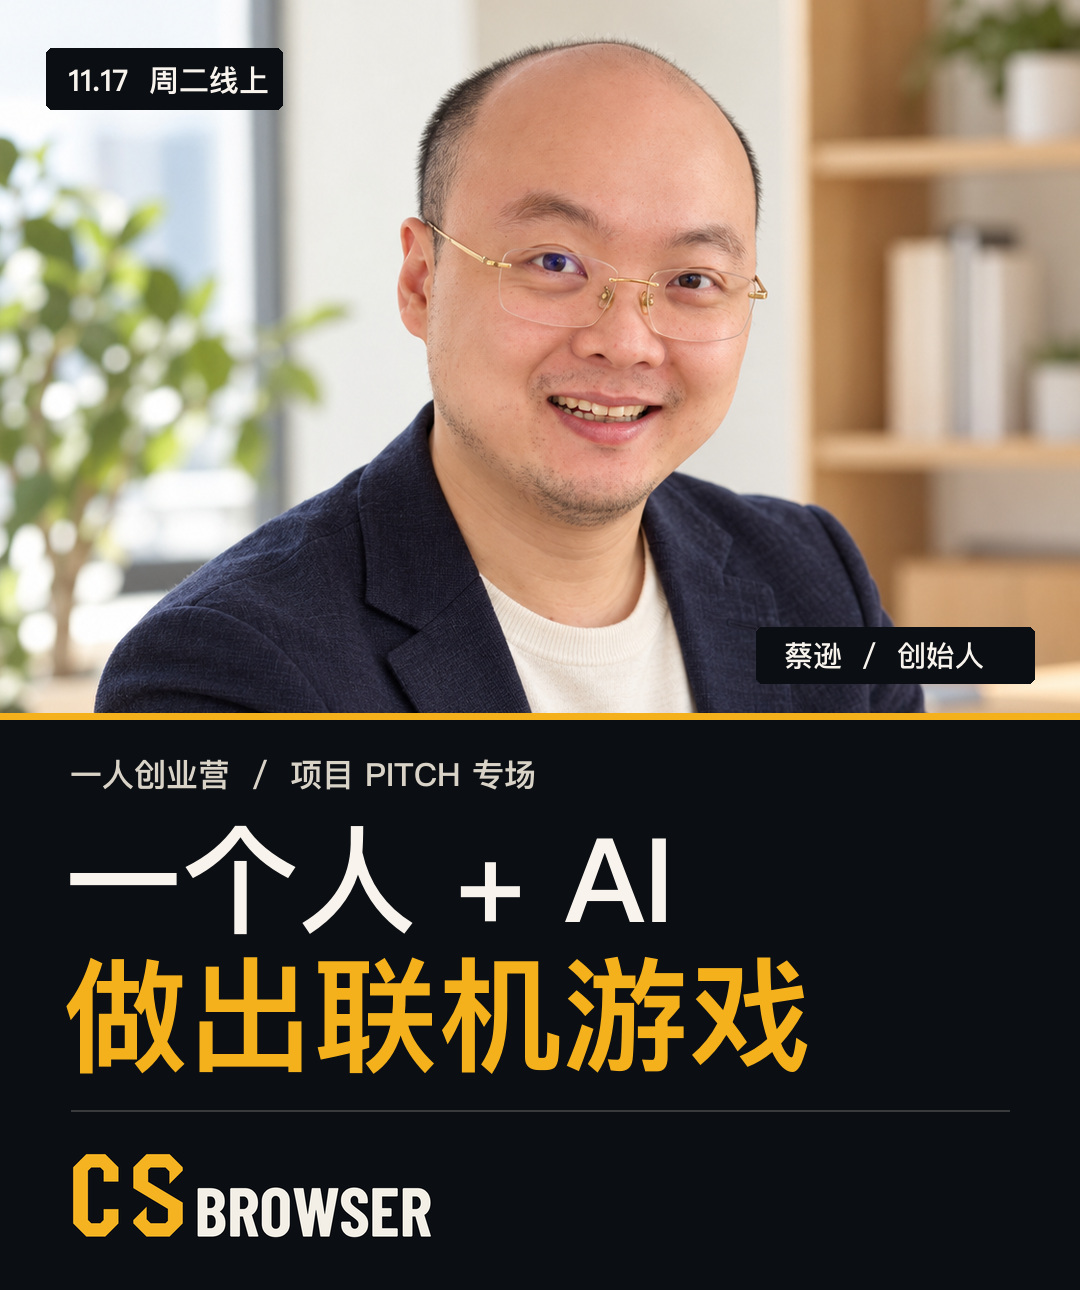
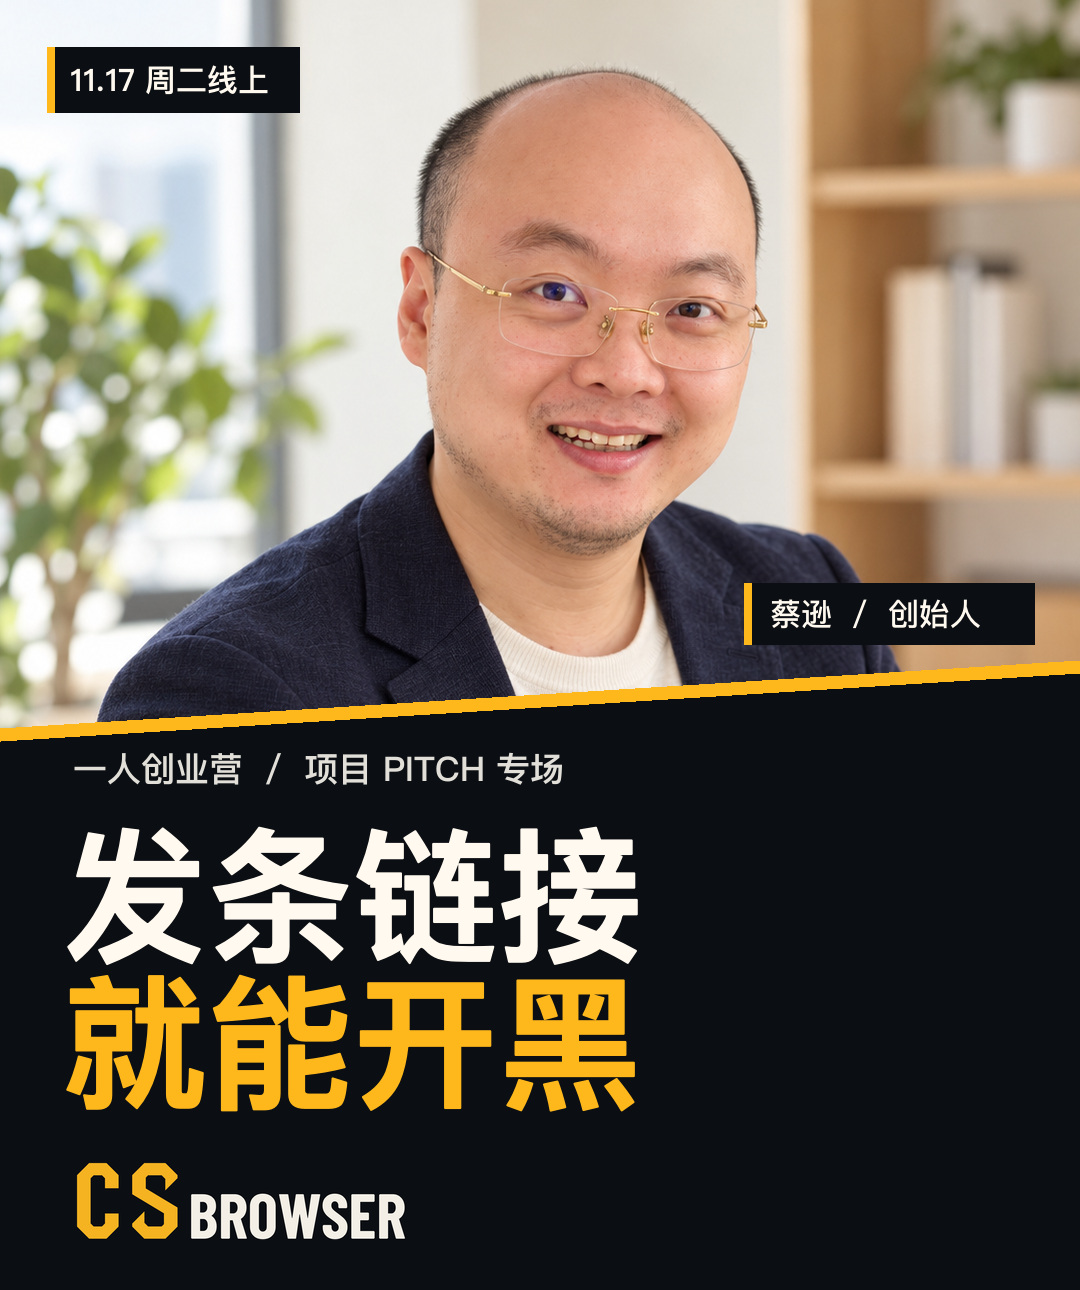
Sharpen the CSBrowser WeChat story and covers

diff --git a/wechat/csbrowser-opc-pitch-2026-11/index.html b/wechat/csbrowser-opc-pitch-2026-11/index.html
@@ -17,9 +17,9 @@
   </header>
   <main>
     <section class="publish-fields" aria-label="公众号发布字段">
-      <h1 id="article-title">一个人用 AI 做出联机游戏，上线后访问破万</h1>
+      <h1 id="article-title">他一个人用 AI 做了款游戏，发条链接就能开黑</h1>
       <button type="button" class="text-button" data-copy="article-title">复制标题</button>
-      <p id="article-summary">一条链接，手机和电脑就能同局。11 月 17 日，听蔡逊讲游戏怎么做出来，第一批访问又是怎么来的。</p>
+      <p id="article-summary">没买广告，上线后约 19 天录得 14,777 次会话。11 月 17 日，蔡逊讲他怎么做、怎么找回头客。</p>
       <button type="button" class="text-button" data-copy="article-summary">复制摘要</button>
       <p class="field-links">
         <a href="assets/cover-wide.jpg" download>下载横版封面</a>
@@ -32,20 +32,22 @@
 
     <article id="article" aria-label="公众号正文预览">
       <section style="color:#222222;font-size:16px;line-height:1.85;letter-spacing:0.3px;overflow-wrap:break-word;">
-        <p style="margin:0 0 18px;text-align:center;"><img src="assets/cover-wide.jpg" width="1410" height="600" alt="一个人加 AI，做出联机游戏。11 月 17 日 CSBrowser 项目 Pitch" style="display:block;width:100%;max-width:100%;height:auto;"></p>
+        <p style="margin:0 0 14px;">群里刚喊完「来一把」，就有人问下哪个客户端，还有人手上只有手机。游戏还没开，队伍已经快散了。</p>
+        <p style="margin:0 0 14px;">蔡逊做了个网页。<strong>房间链接往群里一发，电脑、手机点开就能进同一局。</strong>不用装客户端，也不用注册账号。</p>
+        <p style="margin:0 0 20px;">这款游戏叫 <strong>CSBrowser</strong>。背后没有一支游戏开发团队。负责把它上线的，是蔡逊和他调度的多个 AI 编码代理。</p>
 
-        <p style="margin:0 0 15px;">你在群里喊朋友来一局。有人用电脑，有人手上只有手机。</p>
-        <p style="margin:0 0 15px;">这次你只发了一条链接。两个人打开浏览器，进了同一个房间。</p>
-        <p style="margin:0 0 15px;">这就是蔡逊做的 <strong>CSBrowser</strong>。免安装、免登录，Windows、macOS、Linux 和手机都能一起组队。</p>
-        <p style="margin:0 0 21px;">更让人好奇的是，做这款联机游戏的团队，只有他一个人。</p>
+        <p style="margin:0 0 24px;text-align:center;"><img src="assets/cover-wide.jpg" width="1410" height="600" alt="发条链接就能开黑。11 月 17 日 CSBrowser 项目 Pitch" style="display:block;width:100%;max-width:100%;height:auto;"></p>
 
+        <h2 style="margin:30px 0 15px;color:#161616;font-size:22px;line-height:1.45;font-weight:700;border-left:4px solid #db980d;padding-left:12px;">一条房间链接，从群聊发到直播间</h2>
+        <p style="margin:0 0 14px;">一个朋友用 Windows，一个用 Mac，还有人只有手机。原本要先问「你能玩吗」，现在只需要把自己的房间链接发过去。Linux 上也能玩。</p>
+        <p style="margin:0 0 18px;">把群聊换成直播间，这条链接还有另一种用法。主播发房间链接，观众就有机会从看直播变成和主播打一局。这是蔡逊接下来想试的增长方式。</p>
         <p style="margin:0 0 7px;text-align:center;"><img src="assets/gameplay.jpg" width="1200" height="675" alt="CSBrowser 游戏实机画面" style="display:block;width:100%;max-width:100%;height:auto;"></p>
-        <p style="margin:0 0 25px;color:#626262;font-size:13px;text-align:center;">CSBrowser 实机画面 · 来源为项目官网</p>
+        <p style="margin:0 0 25px;color:#626262;font-size:13px;text-align:center;">CSBrowser 实机画面 · 项目官网</p>
 
-        <h2 style="margin:30px 0 15px;color:#161616;font-size:22px;line-height:1.45;font-weight:700;border-left:4px solid #db980d;padding-left:12px;">一个人怎么把联机做出来？</h2>
-        <p style="margin:0 0 15px;">发链接只要一秒。要让朋友真能在同一局里玩，房间、联机、邀请、录像都得接起来。</p>
-        <p style="margin:0 0 15px;">蔡逊（Albert）做了十多年 Web 全栈开发，现在是 AI Engineer，也是一名独立开发者。做 CSBrowser 时，他把开发任务交给多个 AI 编码代理并行推进，再安排交叉审查和自动测试。</p>
-        <p style="margin:0 0 20px;"><strong>约一个月、277 次左右的代码提交。</strong>联机、邀请、录像这些主体功能陆续做了出来。服务托管在 Cloudflare，房间有需要时才开启。</p>
+        <h2 style="margin:30px 0 15px;color:#161616;font-size:22px;line-height:1.45;font-weight:700;border-left:4px solid #db980d;padding-left:12px;">多个 AI 同时写代码，谁来验收？</h2>
+        <p style="margin:0 0 14px;">一条邀请链接发出去，房间要开得起来，手机和电脑要能连进同一局，打完还得能看录像。这几件事得接得上。</p>
+        <p style="margin:0 0 14px;">做过十多年 Web 全栈开发的蔡逊，把任务拆给多个 AI 编码代理并行做，再组织交叉审查和自动化测试。做出联机、邀请、录像的主体功能，约一个月里留下了 <strong>277 次左右的代码提交</strong>。</p>
+        <p style="margin:0 0 20px;">开房也有个具体的成本选择。服务托管在 Cloudflare，有人要玩时才启动房间，成本随用量走。</p>
 
         <section style="margin:0 0 26px;padding:16px 18px;background-color:#f6f3eb;text-align:center;">
           <p style="margin:0 0 9px;"><img src="assets/founder.jpg" width="900" height="1125" alt="CSBrowser 创始人蔡逊（Albert）" style="display:block;width:100%;max-width:220px;height:auto;margin:0 auto;"></p>
@@ -53,21 +55,21 @@
           <p style="margin:0;color:#54504a;font-size:13px;">CSBrowser 创始人 · AI Engineer · 独立开发者</p>
         </section>
 
-        <h2 style="margin:30px 0 15px;color:#161616;font-size:22px;line-height:1.45;font-weight:700;border-left:4px solid #db980d;padding-left:12px;">没买广告，第一批访问从哪来？</h2>
-        <p style="margin:0 0 15px;">CSBrowser 在 2026 年 10 月 2 日公开上线。项目方提供的 GA4 数据显示，上线后的首个统计窗口约 19 天，期间没有付费投放。</p>
+        <h2 style="margin:30px 0 15px;color:#161616;font-size:22px;line-height:1.45;font-weight:700;border-left:4px solid #db980d;padding-left:12px;">搜索带来了人，谁会回来打第二局？</h2>
+        <p style="margin:0 0 14px;">2026 年 10 月 2 日，CSBrowser 公开上线。没做付费投放，自然搜索成了最大流量来源。</p>
         <section style="margin:0 0 17px;padding:14px 18px;background-color:#fff3d6;border-left:3px solid #db980d;">
           <p style="margin:0 0 3px;"><strong style="font-size:22px;">14,777</strong> 次会话</p>
-          <p style="margin:0;"><strong style="font-size:22px;">12,308</strong> 个用户标识</p>
+          <p style="margin:0 0 4px;"><strong style="font-size:22px;">12,308</strong> 个用户标识</p>
+          <p style="margin:0;color:#62543a;font-size:13px;">项目方 GA4 数据 · 上线后首个约 19 天统计窗口</p>
         </section>
-        <p style="margin:0 0 15px;">这段时间，自然搜索是最大的流量来源。接下来的问题更具体了：搜到游戏的人，有多少会真的进房间？打完一局之后，又有什么理由叫上朋友再来？</p>
-        <p style="margin:0 0 21px;">蔡逊想先试主播联动和排位赛。设想是主播发出房间链接，观众点开就能一起玩。活动赞助、外观和赛季内容也在探索中，他给付费设计定下的原则是「只卖外观，不卖数值」。</p>
-        <p style="margin:0 0 21px;">他还在规划实时语音翻译和 AI 辅助识别辱骂，希望以后一个人也能运营跨语言的主播房间。</p>
-
+        <p style="margin:0 0 14px;">有人搜到游戏、打开网页。接下来要看，他们会不会进房间，打完一局会不会约人再来。</p>
+        <p style="margin:0 0 18px;">蔡逊计划先试主播联动和排位赛。他也给将来的付费玩法划了条线：<strong>只卖外观，不卖数值。</strong>外观、赛季内容和活动赞助，是他打算逐步验证的收入来源。</p>
+        <p style="margin:0 0 18px;">如果主播房间真热闹起来，一个人怎么管？他还在规划队伍语音、实时翻译和 AI 辅助识别辱骂。</p>
         <p style="margin:0 0 24px;"><img src="assets/csbrowser-logo.png" width="1200" height="360" alt="CSBrowser 项目标志" style="display:block;width:100%;max-width:100%;height:auto;"></p>
 
-        <h2 style="margin:30px 0 15px;color:#161616;font-size:22px;line-height:1.45;font-weight:700;border-left:4px solid #db980d;padding-left:12px;">11 月 17 日，把这些问题带到 Pitch</h2>
-        <p style="margin:0 0 15px;">这场匠人学院一人创业营（OPC）项目 Pitch，蔡逊会聊三个具体选择：为什么先做跨设备组队，怎么给多个 AI 编码代理分工，以及有了第一波流量之后该先验证什么。</p>
-        <p style="margin:0 0 20px;">如果你也在用 AI 做自己的产品，可以带一个正卡住的问题来。是先多做一个功能，还是先看看用户为什么点进来、又为什么离开？活动设有问答交流。</p>
+        <h2 style="margin:30px 0 15px;color:#161616;font-size:22px;line-height:1.45;font-weight:700;border-left:4px solid #db980d;padding-left:12px;">11 月 17 日，来问他下一步怎么选</h2>
+        <p style="margin:0 0 14px;">蔡逊会带着已经上线的 CSBrowser 来做一场项目 Pitch，聊为什么选浏览器、一个人怎么管多个 AI 写代码，以及来了第一波访问之后，最想先弄明白什么。</p>
+        <p style="margin:0 0 20px;">如果你也在做自己的产品，问答时可以把问题问具体一点。<strong>AI 写的代码，你最不放心哪一段？只有一个人，下周是先做新功能，还是去找第一批回头客？</strong></p>
 
         <section style="margin:0;padding:22px 18px;background-color:#fff3d6;text-align:center;">
           <p style="margin:0 0 13px;"><img src="assets/jr-academy.png" width="640" height="230" alt="匠人学院 JR Academy" style="display:block;width:144px;max-width:100%;height:auto;margin:0 auto;"></p>
